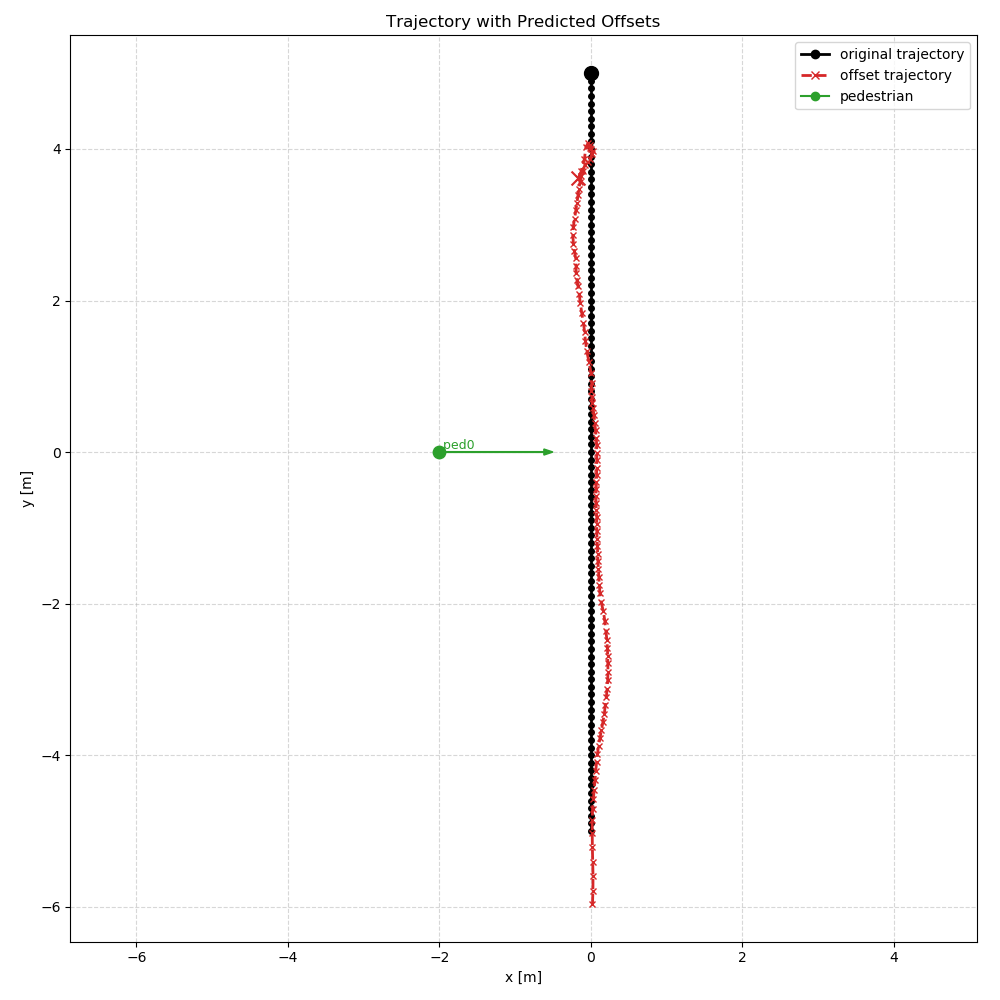
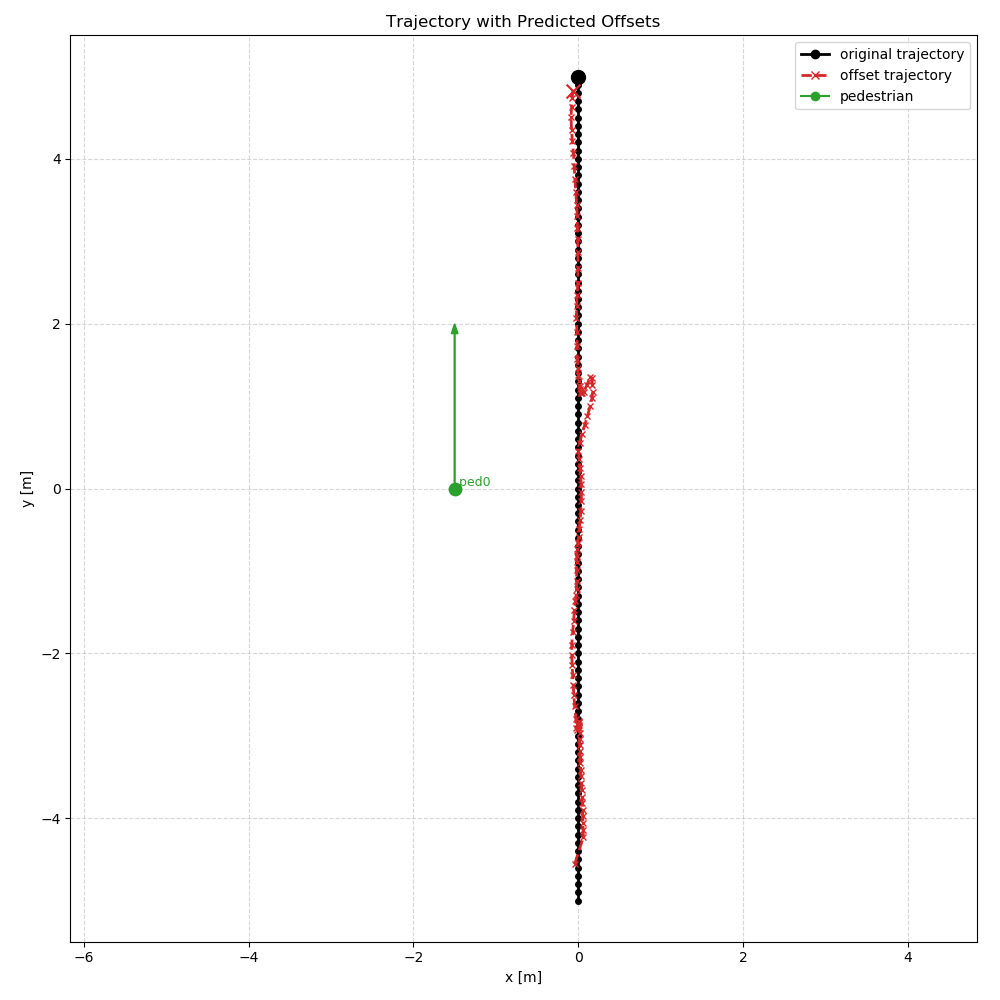
delete node that's too far away - important

Changed region(s): [[0.527, 0.062, 0.62, 0.899], [0.434, 0.31, 0.496, 0.496]]

diff --git a/src/dataset.py b/src/dataset.py
@@ -30,6 +30,7 @@ Assumptions:
 from __future__ import annotations
 
 import argparse
+import json
 import re
 import xml.etree.ElementTree as ET
 from dataclasses import dataclass
@@ -77,6 +78,85 @@ def augment_samples_flip_y(samples: List[GraphSample]) -> List[GraphSample]:
     return augmented_samples
 
 
+def compute_node_feature_stats(samples: List[GraphSample]) -> Dict[str, Dict[str, float]]:
+    """
+    Compute min/max for each node feature across all nodes in all samples.
+    """
+    feature_names = ["x_rel", "y_rel", "vx_rel", "vy_rel", "is_robot"]
+    if not samples:
+        return {}
+
+    all_x = np.concatenate([sample.x for sample in samples], axis=0)
+    feature_mins = np.min(all_x, axis=0)
+    feature_maxs = np.max(all_x, axis=0)
+
+    stats: Dict[str, Dict[str, float]] = {}
+    for idx, feature_name in enumerate(feature_names):
+        stats[feature_name] = {
+            "min": float(feature_mins[idx]),
+            "max": float(feature_maxs[idx]),
+        }
+    return stats
+
+
+def print_node_feature_stats(dataset_name: str, stats: Dict[str, Dict[str, float]]) -> None:
+    """
+    Print min/max for each node feature.
+    """
+    print(f"\n=== Node feature stats: {dataset_name} ===")
+    if not stats:
+        print("No samples available.")
+        return
+
+    for feature_name, feature_stats in stats.items():
+        print(
+            f"{feature_name:>8}: min={feature_stats['min']: .6f}, "
+            f"max={feature_stats['max']: .6f}"
+        )
+
+
+def save_node_feature_stats_json(
+    json_path: str,
+    processed_stats: Dict[str, Dict[str, float]],
+    augmented_stats: Dict[str, Dict[str, float]],
+) -> None:
+    """
+    Save node feature ranges to JSON for later normalization.
+    """
+    os.makedirs(os.path.dirname(json_path), exist_ok=True)
+    payload = {
+        "data_processed": processed_stats,
+        "data_augmented": augmented_stats,
+    }
+    with open(json_path, "w", encoding="utf-8") as f:
+        json.dump(payload, f, indent=2)
+    print(f"Saved node feature stats JSON → {json_path}")
+
+
+def filter_nodes_by_radius(
+    x: np.ndarray,
+    node_inclusion_radius: float,
+) -> np.ndarray:
+    """
+    Keep robot node 0 and keep only non-robot nodes within the given radius.
+    This radius applies to both pedestrians and the target node.
+    """
+    if x.shape[0] <= 1:
+        return x
+
+    other_positions = x[1:, 0:2]
+    other_distances = np.linalg.norm(other_positions, axis=1)
+    other_keep_indices = np.where(other_distances <= node_inclusion_radius)[0] + 1
+
+    keep_indices = np.concatenate(
+        [
+            np.array([0], dtype=np.int64),
+            other_keep_indices.astype(np.int64),
+        ]
+    )
+    return x[keep_indices]
+
+
 # =========================
 # Main loader
 # =========================
@@ -86,6 +166,7 @@ def load_xml_graphs(
     frame_rate: float = 60.0,
     k_horizon_frames: int = 1,
     d_thresh: float = 1.0,
+    node_inclusion_radius: float = 4.0,
     strict_less: bool = True,
 ) -> List[GraphSample]:
     """
@@ -94,6 +175,7 @@ def load_xml_graphs(
       - edge features computed from those
       - robot CV residual label using GLOBAL robot position and velocity
       - filter frames by nearest pedestrian distance threshold
+      - keep only non-robot nodes within node_inclusion_radius
 
     Skips first k frames (cannot label).
     """
@@ -130,11 +212,13 @@ def load_xml_graphs(
         p_prev_global = Pg_all[t - k]
         v_prev_global = Vg_all[t - k]
 
-        # Filter by nearest pedestrian/target distance (current frame)
+        # Filter by nearest pedestrian distance (target excluded)
         dmin = nearest_ped_distance(x_curr)
         keep = (dmin < d_thresh) if strict_less else (dmin <= d_thresh)
         if not keep:
             continue
+
+        x_curr = filter_nodes_by_radius(x_curr, node_inclusion_radius)
 
         edge_index, edge_attr = build_bidirectional_star(x_curr)
         # edge_index, edge_attr = build_directional_star(x_curr)
@@ -181,6 +265,7 @@ if __name__ == "__main__":
     ap.add_argument("--frame_rate", type=float, default=60.0)
     ap.add_argument("--k_horizon_frames", type=int, default=60)
     ap.add_argument("--d_thresh", type=float, default=2.5)
+    ap.add_argument("--node_inclusion_radius", type=float, default=4.0)
     ap.add_argument("--strict_less", action="store_true", default=True)
     ap.add_argument("--non_strict_less", dest="strict_less", action="store_false")
     ap.add_argument(
@@ -219,7 +304,10 @@ if __name__ == "__main__":
 
     # 2) Process each discovered sequence
     all_datasets = {}  # folder_name -> samples
+    all_processed_samples: List[GraphSample] = []
+    all_augmented_samples: List[GraphSample] = []
     kept_frames_total = 0
+    stats_json_path = os.path.join("data", "node_feature_stats.json")
 
     for folder in seq_folders:
         xml_path = os.path.join(args.base_dir, folder, args.xml_name)
@@ -230,10 +318,12 @@ if __name__ == "__main__":
             frame_rate=args.frame_rate,
             k_horizon_frames=args.k_horizon_frames,
             d_thresh=args.d_thresh,
+            node_inclusion_radius=args.node_inclusion_radius,
             strict_less=args.strict_less,
         )
 
         all_datasets[folder] = samples
+        all_processed_samples.extend(samples)
 
         kept_frames = [s.meta["t"] for s in samples]
         kept_frames_total += len(kept_frames)
@@ -254,6 +344,7 @@ if __name__ == "__main__":
         if args.write_augmented:
             # 4) Create and save augmented dataset
             augmented_samples = augment_samples_flip_y(samples)
+            all_augmented_samples.extend(augmented_samples)
             augmented_out_file = os.path.join(
                 args.augmented_out_dir,
                 f"gnn_dataset_{folder}_flip_y.npz",
@@ -261,3 +352,9 @@ if __name__ == "__main__":
             save_graph_samples_npz(augmented_out_file, augmented_samples)
             print(f"Saved augmented → {augmented_out_file}")
     print(f"\nKept {kept_frames_total} total frames")
+    processed_stats = compute_node_feature_stats(all_processed_samples)
+    augmented_stats = compute_node_feature_stats(all_augmented_samples)
+    print_node_feature_stats("data_processed", processed_stats)
+    if args.write_augmented:
+        print_node_feature_stats("data_augmented", augmented_stats)
+    save_node_feature_stats_json(stats_json_path, processed_stats, augmented_stats)

diff --git a/src/utils.py b/src/utils.py
@@ -153,14 +153,20 @@ def flip_graph_sample_y(
 
 
 def save_graph_samples_npz(npz_path: str, samples) -> None:
+    def to_object_array(items):
+        arr = np.empty(len(items), dtype=object)
+        for i, item in enumerate(items):
+            arr[i] = item
+        return arr
+
     os.makedirs(os.path.dirname(npz_path), exist_ok=True)
     np.savez_compressed(
         npz_path,
-        xs=np.array([s.x for s in samples], dtype=object),
-        edge_indices=np.array([s.edge_index for s in samples], dtype=object),
-        edge_attrs=np.array([s.edge_attr for s in samples], dtype=object),
+        xs=to_object_array([s.x for s in samples]),
+        edge_indices=to_object_array([s.edge_index for s in samples]),
+        edge_attrs=to_object_array([s.edge_attr for s in samples]),
         ys=np.array([s.y for s in samples], dtype=np.float32),
-        metas=np.array([s.meta for s in samples], dtype=object),
+        metas=to_object_array([s.meta for s in samples]),
     )
 
 # =========================

diff --git a/src/sample_plot.py b/src/sample_plot.py
@@ -105,9 +105,9 @@ def predict_offset_at_frame(
     else:
         y_hat = y_hat_local
     
-    print("------------------------------------------------------------------------------")
-    print("data",data.x.numpy(),data.edge_index.numpy(),data.edge_attr.numpy())
-    print(f"Predicted CV residual [dx, dy] (local): {y_hat_local.tolist()}")
+    #print("------------------------------------------------------------------------------")
+    #print("data",data.x.numpy(),data.edge_index.numpy(),data.edge_attr.numpy())
+    #print(f"Predicted CV residual [dx, dy] (local): {y_hat_local.tolist()}")
     #print(f"Predicted CV residual [dx, dy] (global): {y_hat.tolist()}")
     
     return y_hat
@@ -247,11 +247,11 @@ def main() -> None:
     # Simple pedestrian positions (fixed for demonstration)
     # ============================================================
     pedestrian_positions = np.array([
-        [-2.0, 0.0]
+        [-1.5, 0.0]
     ], dtype=np.float32)
 
     pedestrian_velocities = np.array([
-        [1.5, 0.0]
+        [0.0, 2.0]
     ], dtype=np.float32)
 
     # ============================================================
@@ -282,7 +282,7 @@ def main() -> None:
             direction = robot_trajectory[i] - robot_trajectory[i-1]
             direction_norm = np.linalg.norm(direction)
             if direction_norm > 1e-6:
-                robot_vel = 0.5 * (direction / direction_norm)
+                robot_vel = 2.0 * (direction / direction_norm)
             else:
                 robot_vel = np.array([0.0, 0.0], dtype=np.float32)
 

diff --git a/src/train.py b/src/train.py
@@ -197,11 +197,12 @@ def main():
         action="store_false",
         help="Disable augmented NPZ files for the validation split.",
     )
-    ap.add_argument("--batch_size", type=int, default=64) #64
-    ap.add_argument("--epochs", type=int, default=30) #50
+    ap.add_argument("--batch_size", type=int, default=128) #64
+    ap.add_argument("--epochs", type=int, default=20) #50
     ap.add_argument("--lr", type=float, default=5e-4) #5e-5
-    ap.add_argument("--hidden_dim", type=int, default=128) #128
+    ap.add_argument("--hidden_dim", type=int, default=64) #128
     ap.add_argument("--num_layers", type=int, default=3) #3
+    ap.add_argument("--weight_decay", type=float, default=5e-4) #1e-4
     ap.add_argument(
         "--consistency_loss",
         action="store_true",
@@ -311,7 +312,7 @@ def main():
         num_layers=args.num_layers,
     ).to(device)
 
-    opt = torch.optim.AdamW(model.parameters(), lr=args.lr, weight_decay=1e-4) # 1e-4
+    opt = torch.optim.AdamW(model.parameters(), lr=args.lr, weight_decay=args.weight_decay) # 1e-4
 
     best_val = float("inf")
     train_losses = []